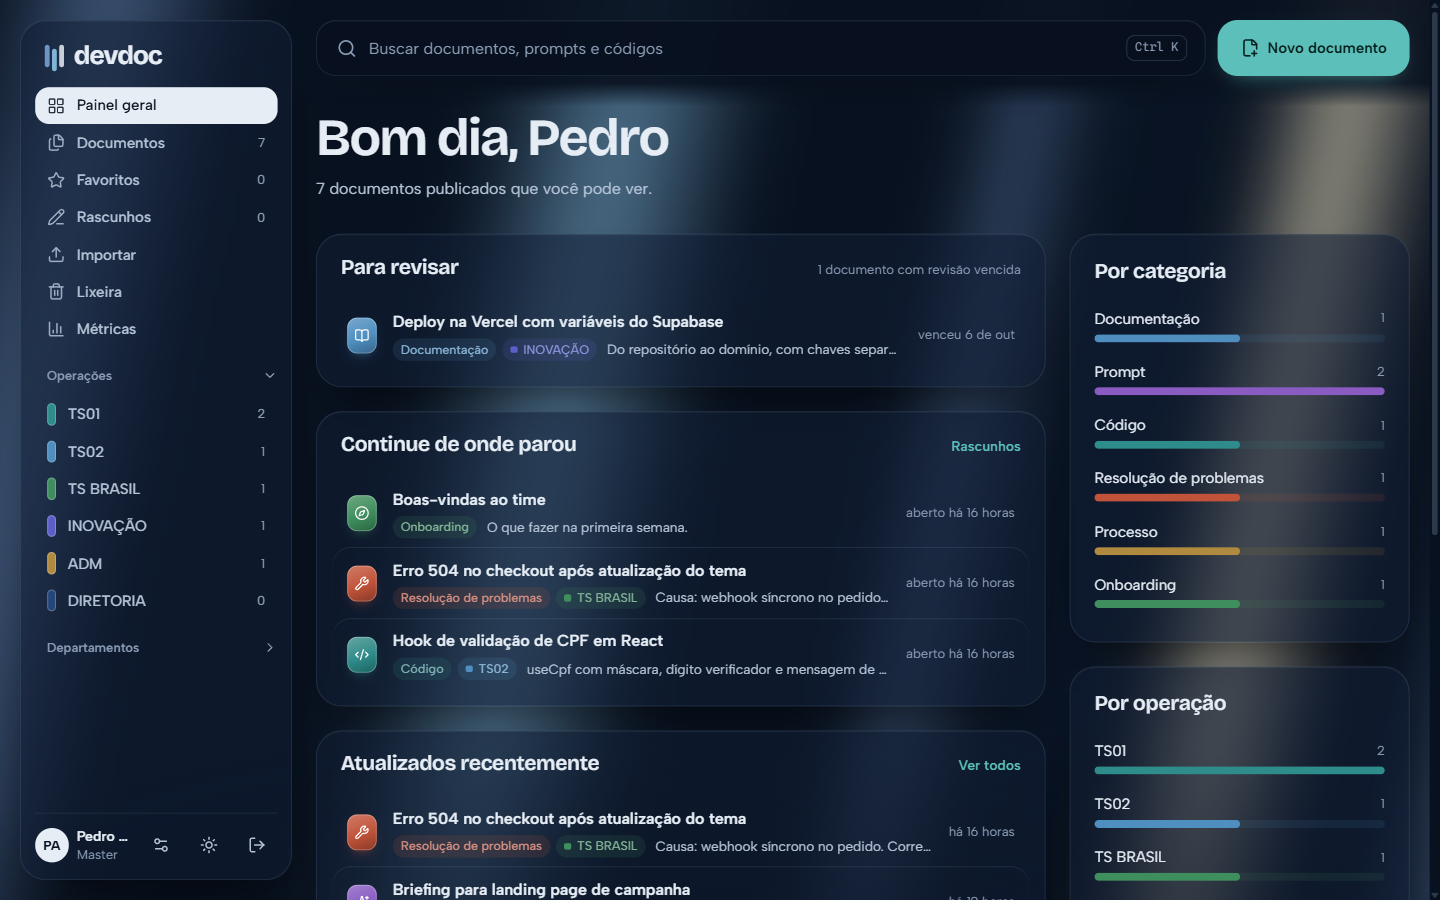
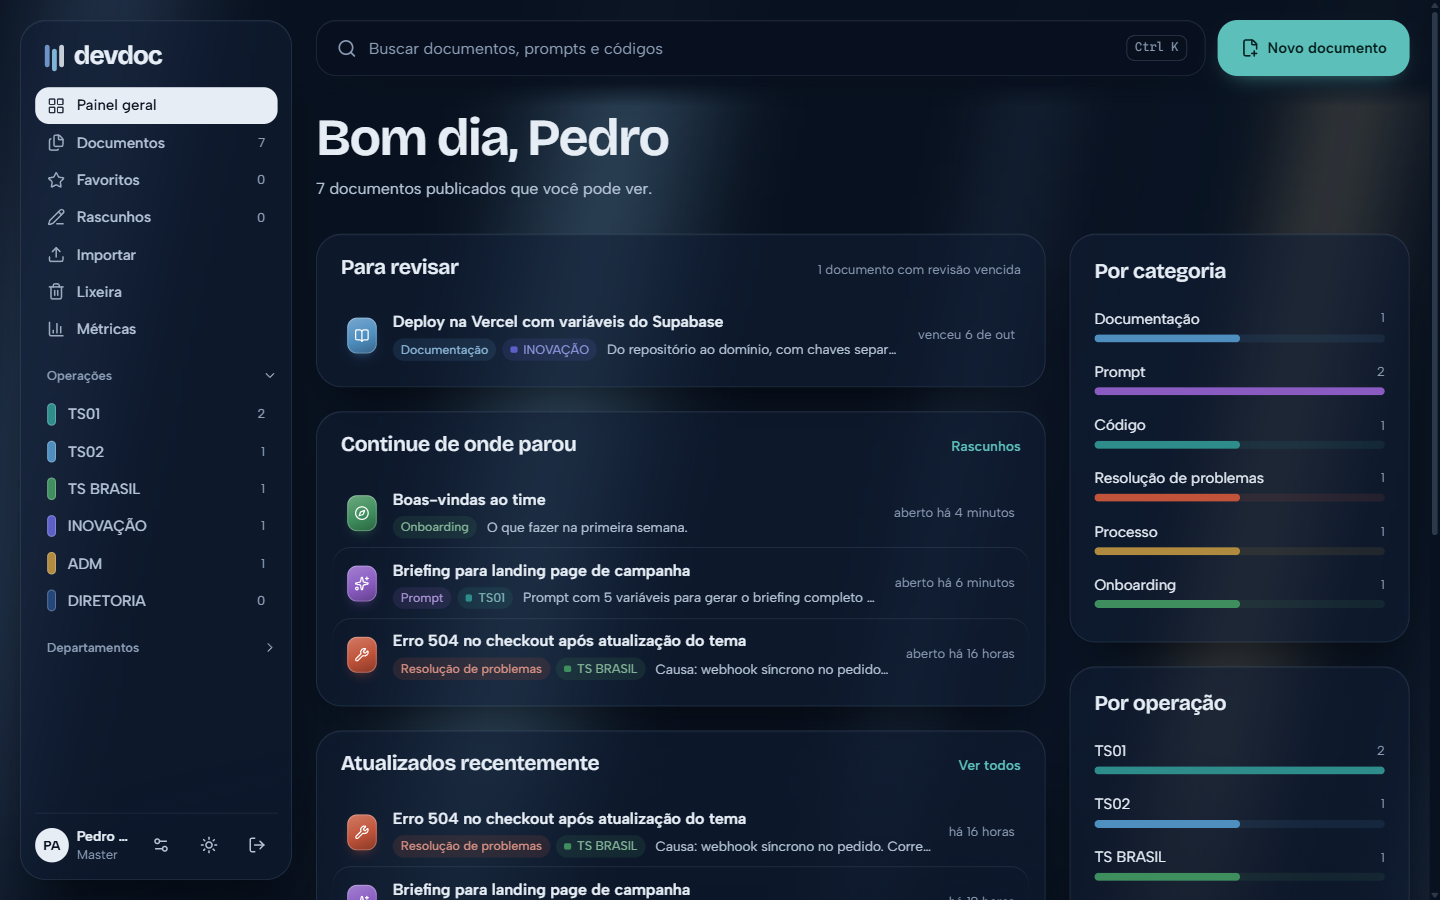
Suaviza a luz do modo escuro
Faixas de luz a 26% e areia mais escura no tema escuro, para o brilho ficar no fundo.

diff --git a/src/app/globals.css b/src/app/globals.css
@@ -68,7 +68,8 @@
     --danger-soft: rgba(239, 138, 115, 0.12);
     --ok: #7fd1a3;
     --code-bg: #060d19;
-    --band-strength: 54%;
+    --band-strength: 26%;
+    --sand: #8f8873;
     color-scheme: dark;
   }
 }
@@ -95,7 +96,8 @@
   --danger-soft: rgba(239, 138, 115, 0.12);
   --ok: #7fd1a3;
   --code-bg: #060d19;
-  --band-strength: 54%;
+  --band-strength: 26%;
+  --sand: #8f8873;
   color-scheme: dark;
 }
 
